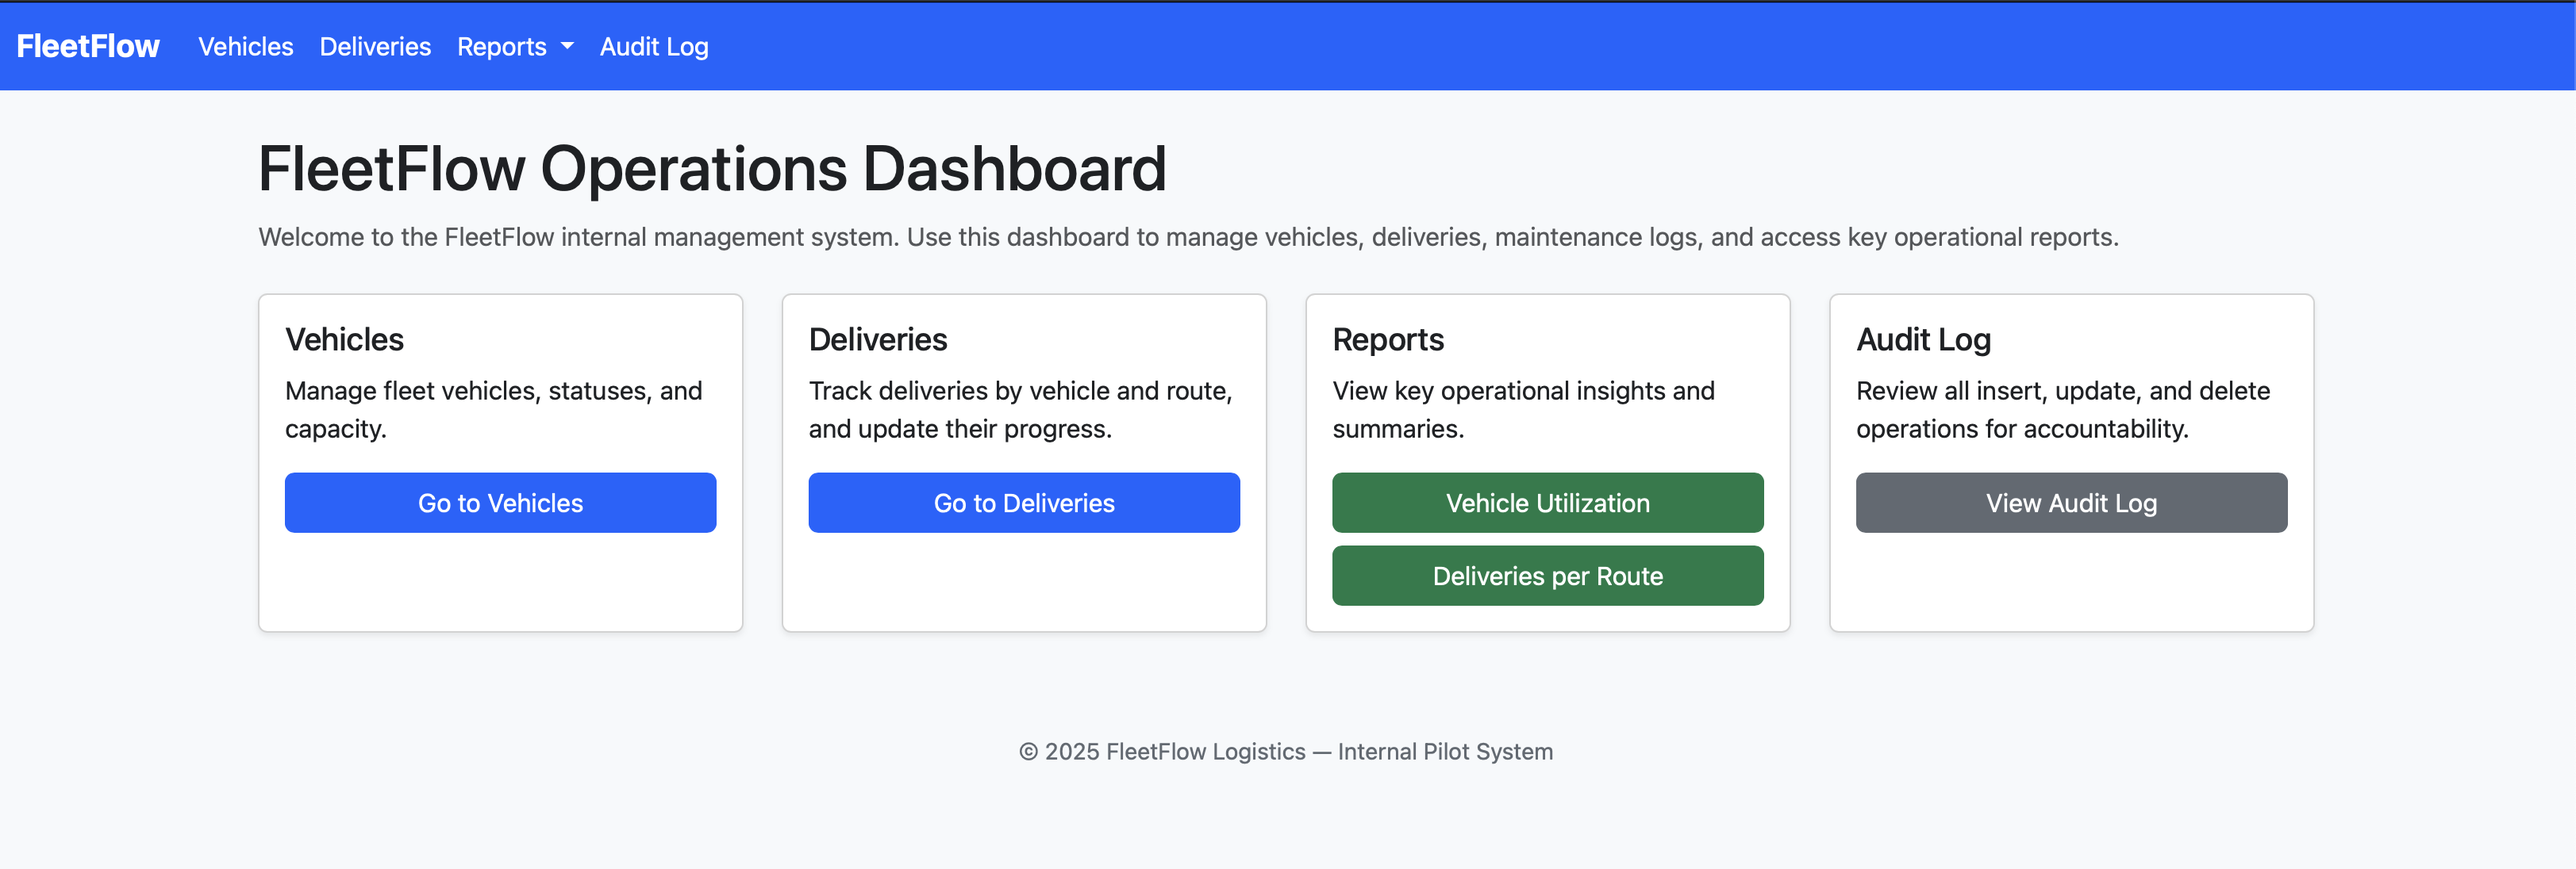
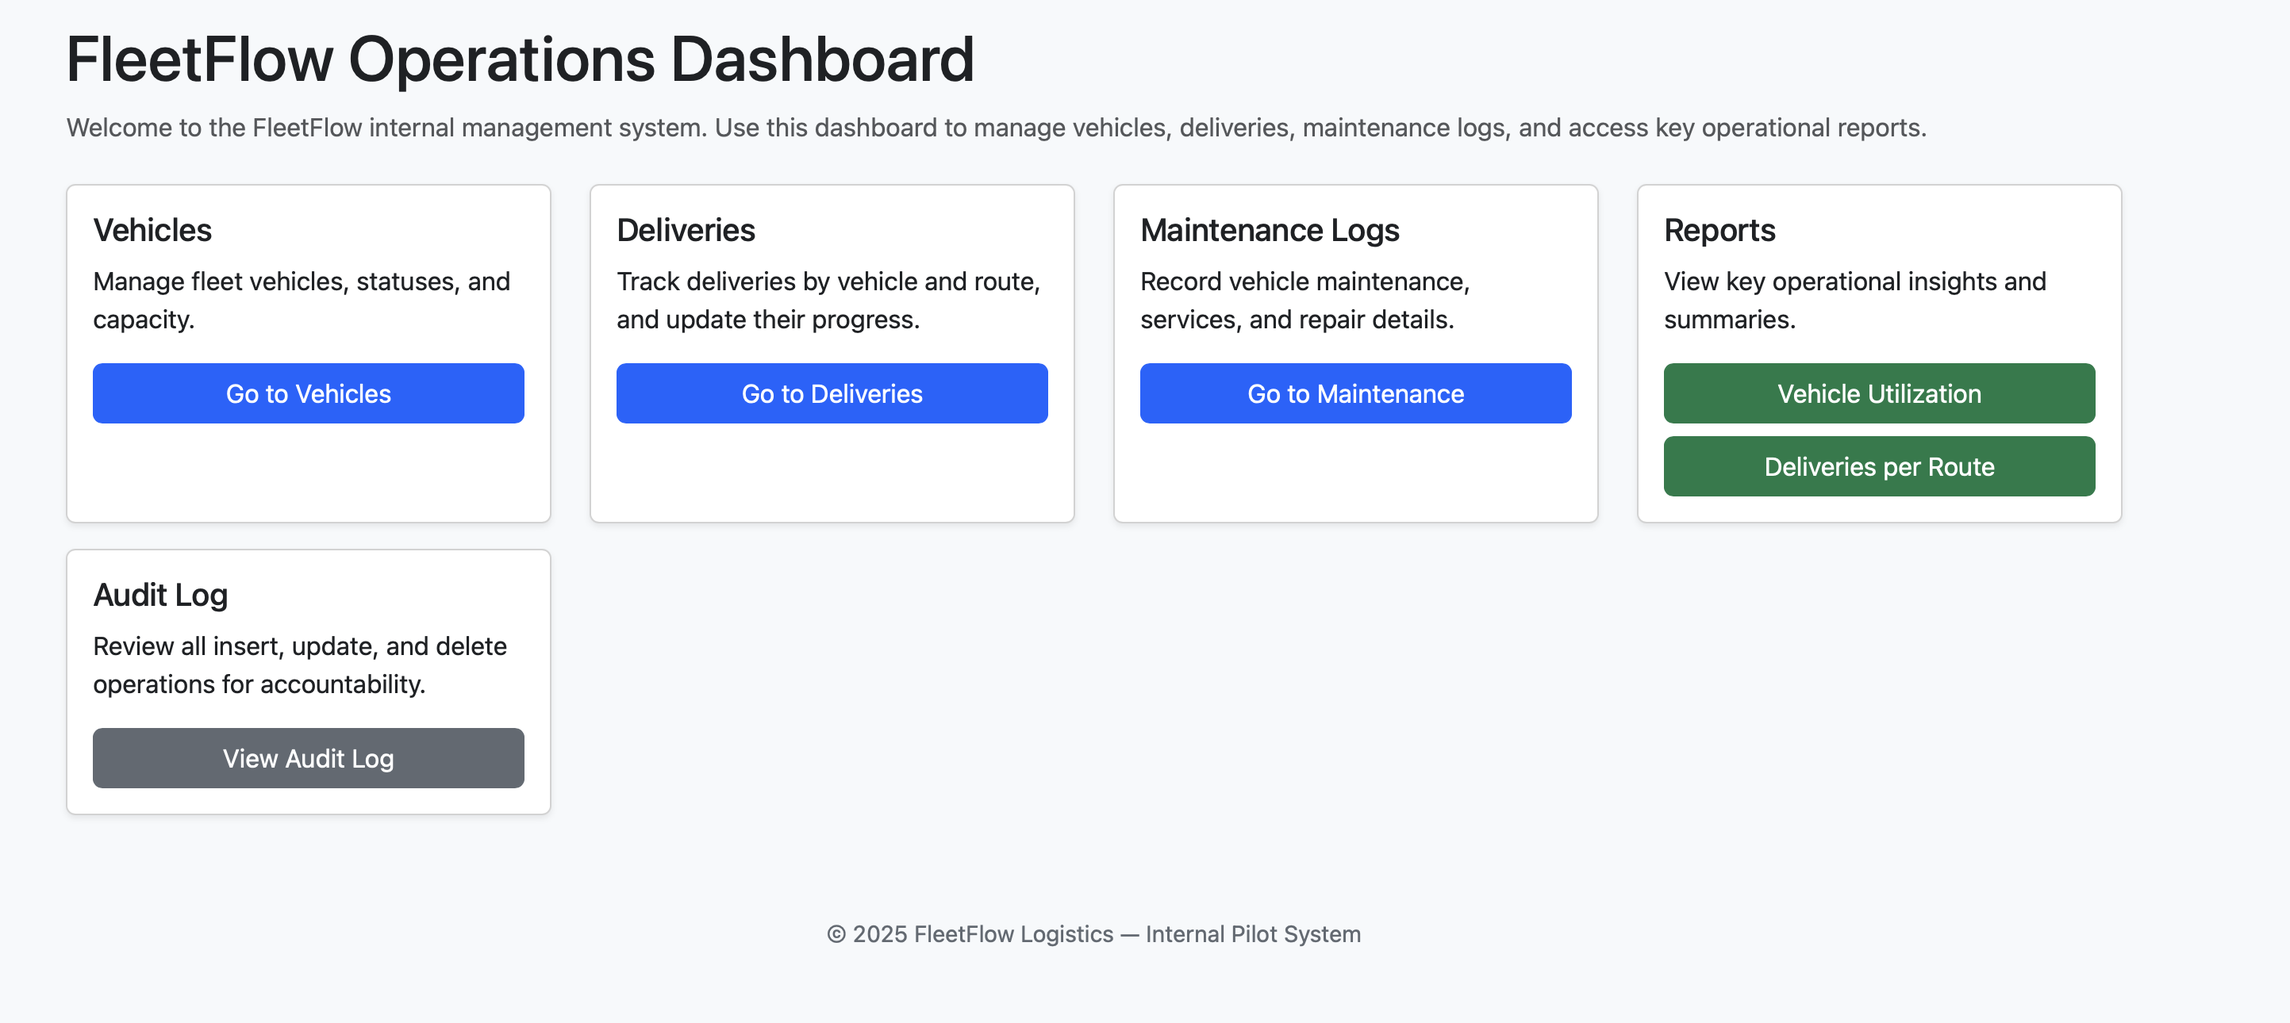
creating matenance_logs functionality

Changed region(s): [[0.0, 0.0, 1.0, 0.7135], [0.3742, 0.8376, 0.5925, 0.9307], [0.0312, 0.7135, 0.2495, 0.7755]]

diff --git a/templates/maintenance_form.html b/templates/maintenance_form.html
@@ -1,0 +1,104 @@
+{% extends "base.html" %}
+
+{% block content %}
+<h1>{{ "Edit Maintenance Log" if is_edit else "Add Maintenance Log" }}</h1>
+
+{% if error %}
+<div class="alert alert-danger">{{ error }}</div>
+{% endif %}
+
+<form method="post" action="{{ form_action }}">
+    <div class="mb-3">
+        <label for="vehicle_id" class="form-label">Vehicle</label>
+        <select name="vehicle_id" id="vehicle_id" class="form-select" required>
+            <option value="">-- Select vehicle --</option>
+            {% for v in vehicles %}
+                {% set selected = "" %}
+                {% if log and log.vehicle_id == v.vehicle_id %}
+                    {% set selected = "selected" %}
+                {% endif %}
+                <option value="{{ v.vehicle_id }}" {{ selected }}>
+                    {{ v.vehicle_id }} ({{ v.type }})
+                </option>
+            {% endfor %}
+        </select>
+    </div>
+
+    <div class="mb-3">
+        <label for="service_date" class="form-label">Service Date</label>
+        <input
+            type="date"
+            name="service_date"
+            id="service_date"
+            class="form-control"
+            required
+            value="{{ log.service_date if log else '' }}"
+        >
+    </div>
+
+    <div class="mb-3">
+        <label for="service_type" class="form-label">Service Type</label>
+        <input
+            type="text"
+            name="service_type"
+            id="service_type"
+            class="form-control"
+            placeholder="Oil change, tire rotation, inspection..."
+            required
+            value="{{ log.service_type if log else '' }}"
+        >
+    </div>
+
+    <div class="mb-3">
+        <label for="description" class="form-label">Description</label>
+        <textarea
+            name="description"
+            id="description"
+            class="form-control"
+            rows="3"
+            required
+        >{{ log.description if log else "" }}</textarea>
+    </div>
+
+    <div class="mb-3">
+        <label for="odometer_at_service" class="form-label">Odometer at Service (km)</label>
+        <input
+            type="number"
+            name="odometer_at_service"
+            id="odometer_at_service"
+            class="form-control"
+            min="0"
+            value="{{ log.odometer_at_service if log and log.odometer_at_service is not none else '' }}"
+        >
+    </div>
+
+    <div class="mb-3">
+        <label for="vendor" class="form-label">Vendor</label>
+        <input
+            type="text"
+            name="vendor"
+            id="vendor"
+            class="form-control"
+            value="{{ log.vendor if log else '' }}"
+        >
+    </div>
+
+    <div class="mb-3">
+        <label for="cost" class="form-label">Cost</label>
+        <input
+            type="number"
+            step="0.01"
+            min="0"
+            name="cost"
+            id="cost"
+            class="form-control"
+            value="{{ log.cost if log and log.cost is not none else '' }}"
+        >
+    </div>
+
+    <button type="submit" class="btn btn-primary">
+        {{ "Save Changes" if is_edit else "Create Maintenance Log" }}
+    </button>
+    <a href="{{ url_for('list_maintenance') }}" class="btn btn-secondary ms-2">Cancel</a>
+</form>
+{% endblock %}

diff --git a/templates/maintenance_logs.html b/templates/maintenance_logs.html
@@ -1,0 +1,58 @@
+{% extends "base.html" %}
+
+{% block content %}
+<h1>Maintenance Logs</h1>
+
+<div class="mb-3">
+    <a href="{{ url_for('create_maintenance') }}" class="btn btn-primary">Add Maintenance Log</a>
+</div>
+
+<table class="table table-striped table-bordered">
+    <thead>
+        <tr>
+            <th>Log ID</th>
+            <th>Vehicle</th>
+            <th>Service Date</th>
+            <th>Service Type</th>
+            <th>Description</th>
+            <th>Odometer</th>
+            <th>Vendor</th>
+            <th>Cost</th>
+            <th></th>
+        </tr>
+    </thead>
+    <tbody>
+    {% for log in logs %}
+        <tr>
+            <td>{{ log.log_id }}</td>
+            <td>{{ log.vehicle_id }} ({{ log.vehicle_type }})</td>
+            <td>{{ log.service_date }}</td>
+            <td>{{ log.service_type }}</td>
+            <td>{{ log.description }}</td>
+            <td>{{ log.odometer_at_service or '-' }}</td>
+            <td>{{ log.vendor or '-' }}</td>
+            <td>
+                {% if log.cost is not none %}
+                    ${{ '%.2f'|format(log.cost) }}
+                {% else %}
+                    -
+                {% endif %}
+            </td>
+            <td class="text-end">
+                <a href="{{ url_for('edit_maintenance', log_id=log.log_id) }}" class="btn btn-sm btn-secondary">Edit</a>
+                <form action="{{ url_for('delete_maintenance', log_id=log.log_id) }}"
+                      method="post"
+                      style="display:inline"
+                      onsubmit="return confirm('Delete this maintenance log?');">
+                    <button type="submit" class="btn btn-sm btn-danger">Delete</button>
+                </form>
+            </td>
+        </tr>
+    {% else %}
+        <tr>
+            <td colspan="9" class="text-center text-muted">No maintenance records found.</td>
+        </tr>
+    {% endfor %}
+    </tbody>
+</table>
+{% endblock %}

diff --git a/templates/index.html b/templates/index.html
@@ -34,6 +34,19 @@
         </div>
     </div>
 
+    <!-- Maintenance Logs -->
+    <div class="col-md-3 mb-3">
+        <div class="card h-100 shadow-sm">
+            <div class="card-body">
+                <h5 class="card-title">Maintenance Logs</h5>
+                <p class="card-text">
+                    Record vehicle maintenance, services, and repair details.
+                </p>
+                <a href="{{ url_for('list_maintenance') }}" class="btn btn-primary w-100">Go to Maintenance</a>
+            </div>
+        </div>
+    </div>
+
     <!-- Reports -->
     <div class="col-md-3 mb-3">
         <div class="card h-100 shadow-sm">

diff --git a/templates/base.html b/templates/base.html
@@ -45,6 +45,7 @@
                 <ul class="navbar-nav me-auto mb-2 mb-lg-0">
                     <li class="nav-item"><a class="nav-link" href="{{ url_for('list_vehicles') }}">Vehicles</a></li>
                     <li class="nav-item"><a class="nav-link" href="{{ url_for('list_deliveries') }}">Deliveries</a></li>
+                    <li class="nav-item"><a class="nav-link" href="{{ url_for('list_maintenance') }}">Maintenance Logs</a></li>
                     <li class="nav-item dropdown">
                         <a class="nav-link dropdown-toggle" href="#" role="button" data-bs-toggle="dropdown">
                             Reports

diff --git a/app.py b/app.py
@@ -443,6 +443,186 @@ def deliveries_per_route_report():
     ).fetchall()
     return render_template("report_deliveries_per_route.html", rows=rows)
 
+# ---------- MAINTENANCE LOGS CRUD ----------
+@app.route("/maintenance")
+def list_maintenance():
+    """
+    List all maintenance logs, joined with vehicle info.
+    """
+    db = get_db()
+    logs = db.execute(
+        """
+        SELECT m.log_id,
+               m.service_date,
+               m.service_type,
+               m.description,
+               m.vendor,
+               m.cost,
+               m.odometer_at_service,
+               v.vehicle_id,
+               v.type AS vehicle_type
+        FROM maintenance_logs m
+        JOIN vehicles v ON m.vehicle_id = v.vehicle_id
+        ORDER BY m.service_date DESC, m.log_id DESC
+        """
+    ).fetchall()
+    return render_template("maintenance_logs.html", logs=logs)
+
+@app.route("/maintenance/new", methods=["GET", "POST"])
+def create_maintenance():
+    """
+    Create a new maintenance log entry.
+    """
+    db = get_db()
+
+    if request.method == "POST":
+        vehicle_id = request.form.get("vehicle_id")
+        service_date = request.form.get("service_date")
+        service_type = request.form.get("service_type")
+        description = request.form.get("description")
+        odometer_raw = request.form.get("odometer_at_service")
+        vendor = request.form.get("vendor") or None
+        cost_raw = request.form.get("cost")
+
+        odometer_at_service = int(odometer_raw) if odometer_raw else None
+        cost = float(cost_raw) if cost_raw else None
+
+        db.execute(
+            """
+            INSERT INTO maintenance_logs (
+                vehicle_id, service_date, description,
+                service_type, odometer_at_service, vendor, cost
+            ) VALUES (?, ?, ?, ?, ?, ?, ?)
+            """,
+            (
+                vehicle_id,
+                service_date,
+                description,
+                service_type,
+                odometer_at_service,
+                vendor,
+                cost,
+            ),
+        )
+        log_audit(
+            db,
+            action="INSERT",
+            table_name="maintenance_logs",
+            record_id="(auto)",
+            user="demo_user",
+            details=f"Created maintenance log for vehicle {vehicle_id}",
+        )
+        db.commit()
+        return redirect(url_for("list_maintenance"))
+
+    # GET: load active vehicles for dropdown
+    vehicles = db.execute(
+        "SELECT vehicle_id, type FROM vehicles WHERE status != 'retired' ORDER BY vehicle_id"
+    ).fetchall()
+
+    return render_template(
+        "maintenance_form.html",
+        log=None,
+        vehicles=vehicles,
+        form_action=url_for("create_maintenance"),
+        is_edit=False,
+        error=None,
+    )
+
+@app.route("/maintenance/<int:log_id>/edit", methods=["GET", "POST"])
+def edit_maintenance(log_id):
+    """
+    Edit an existing maintenance log.
+    """
+    db = get_db()
+    log = db.execute(
+        "SELECT * FROM maintenance_logs WHERE log_id = ?",
+        (log_id,),
+    ).fetchone()
+
+    if log is None:
+        return "Maintenance log not found", 404
+
+    if request.method == "POST":
+        vehicle_id = request.form.get("vehicle_id")
+        service_date = request.form.get("service_date")
+        service_type = request.form.get("service_type")
+        description = request.form.get("description")
+        odometer_raw = request.form.get("odometer_at_service")
+        vendor = request.form.get("vendor") or None
+        cost_raw = request.form.get("cost")
+
+        odometer_at_service = int(odometer_raw) if odometer_raw else None
+        cost = float(cost_raw) if cost_raw else None
+
+        db.execute(
+            """
+            UPDATE maintenance_logs
+            SET vehicle_id = ?,
+                service_date = ?,
+                service_type = ?,
+                description = ?,
+                odometer_at_service = ?,
+                vendor = ?,
+                cost = ?
+            WHERE log_id = ?
+            """,
+            (
+                vehicle_id,
+                service_date,
+                service_type,
+                description,
+                odometer_at_service,
+                vendor,
+                cost,
+                log_id,
+            ),
+        )
+        log_audit(
+            db,
+            action="UPDATE",
+            table_name="maintenance_logs",
+            record_id=log_id,
+            user="demo_user",
+            details=f"Updated maintenance log {log_id}",
+        )
+        db.commit()
+        return redirect(url_for("list_maintenance"))
+
+    vehicles = db.execute(
+        "SELECT vehicle_id, type FROM vehicles WHERE status != 'retired' ORDER BY vehicle_id"
+    ).fetchall()
+
+    return render_template(
+        "maintenance_form.html",
+        log=log,
+        vehicles=vehicles,
+        form_action=url_for("edit_maintenance", log_id=log_id),
+        is_edit=True,
+        error=None,
+    )
+
+@app.route("/maintenance/<int:log_id>/delete", methods=["POST"])
+def delete_maintenance(log_id):
+    """
+    Delete a maintenance log entry.
+    """
+    db = get_db()
+    db.execute(
+        "DELETE FROM maintenance_logs WHERE log_id = ?",
+        (log_id,),
+    )
+    log_audit(
+        db,
+        action="DELETE",
+        table_name="maintenance_logs",
+        record_id=log_id,
+        user="demo_user",
+        details=f"Deleted maintenance log {log_id}",
+    )
+    db.commit()
+    return redirect(url_for("list_maintenance"))
+
 # ---------- AUDITS ----------
 @app.route("/audit")
 def view_audit_log():
